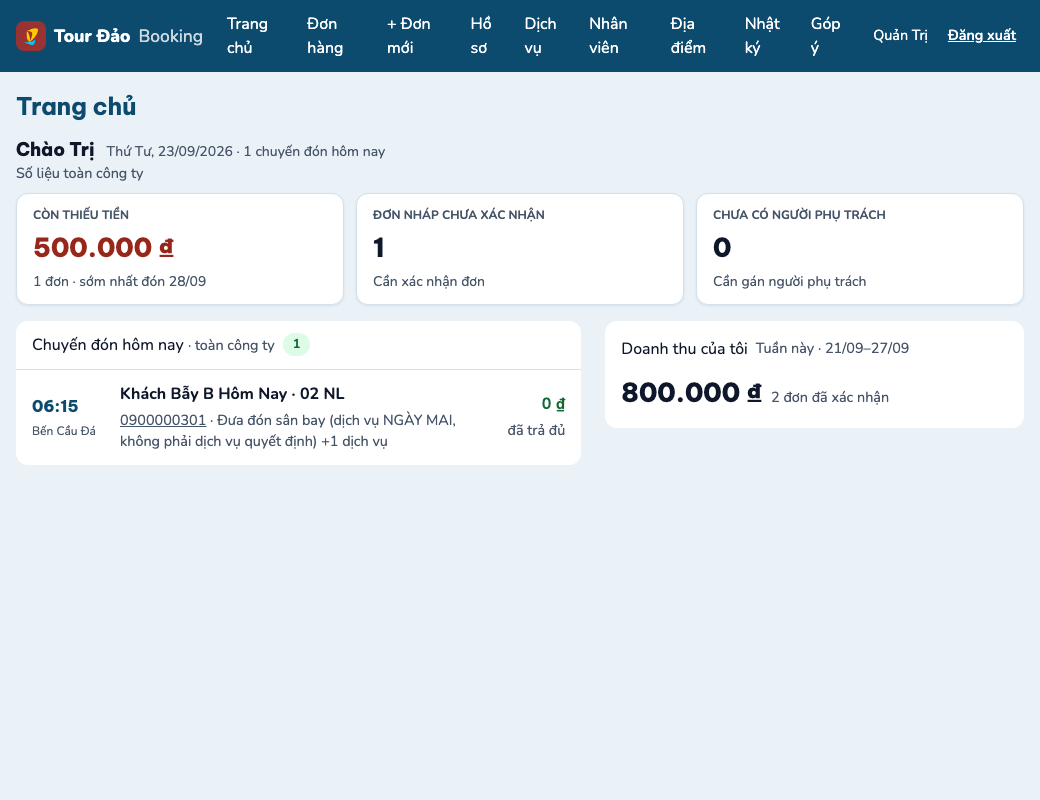
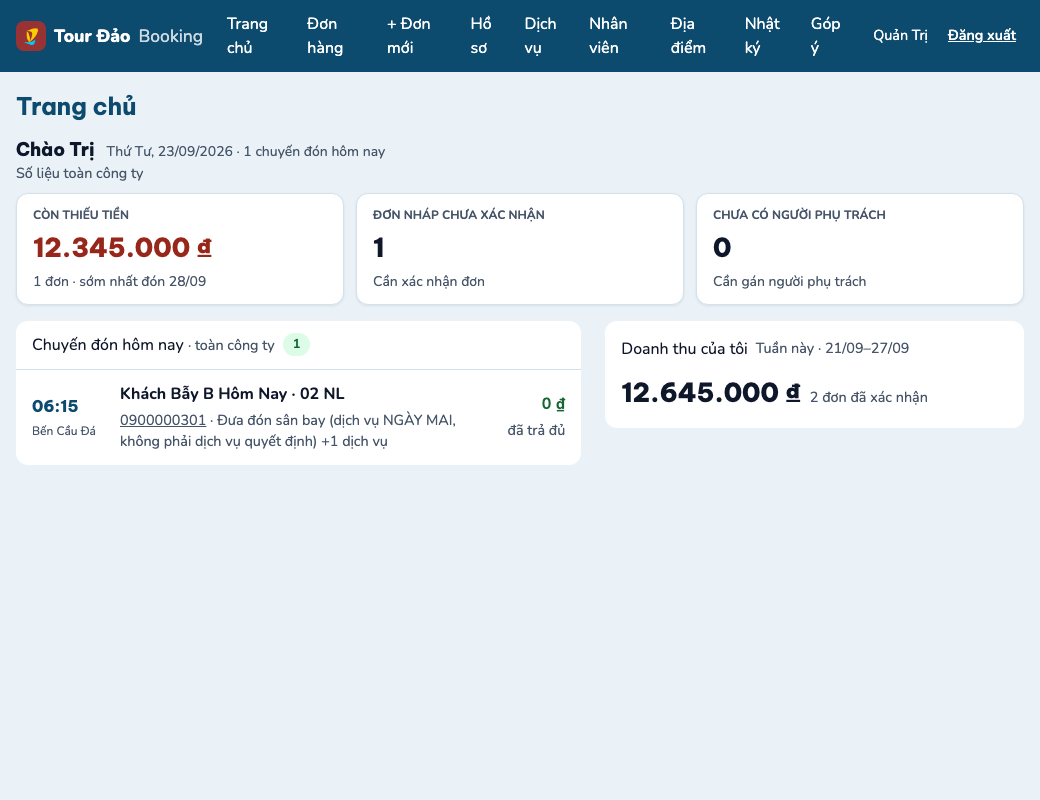
Hiệu chỉnh I-3 theo cỡ số thật + sửa nốt số tab lỗi thời ở PWA-IPHONE.md
Lưới chặn I-3 (ô số liệu không được xuống dòng) ban đầu đo trên dữ liệu R3 = 500.000 — đúng
số vừa khít với cỡ chữ 26px cũ, KHÔNG phải cỡ số ticket nêu ("số thật của công ty, hàng chục
triệu sẽ tệ hơn"). Đổi unitPrice của R3 trong trang-chu-smoke.mjs thành 12.345.000 và cập
nhật mọi assertion literal đi kèm — lưới nay đo đúng cỡ số thật.

P16: tạm trả .dash-stat-value về font-size 26px (var(--fs-stat)), build lại, chạy kịch bản
→ đỏ đúng ở assertion mới (valueWrapped: true, 78px thật so với 39px một dòng, số liệu
"12.345.000 ₫"). Phục hồi var(--fs-stat-sm) → xanh trở lại. Cơ chế kiểm coi là hoạt động.

Sửa nốt docs/PWA-IPHONE.md dòng 10-11: số tab theo vai (SALES/ADMIN/kế toán) và số tab lúc
mất mạng đều lỗi thời cùng nguyên nhân với web/shell.ts:115 (thêm "Trang chủ" vào tabsFor) —
tính lại từ mã và đối chiếu bằng kịch bản Chrome (ADMIN 6 mục ở 390px).

Ảnh docs/evidence/2026-09-23-trang-chu-moi/anh/*.png ghi đè lại theo dữ liệu mới (nội dung
đổi có chủ đích).

Claude-Session: https://claude.ai/code/session_01NJLtLC2YyD5cXeAzhcNJ4B

Changed region(s): [[0.0308, 0.2812, 0.2154, 0.3438], [0.5846, 0.4688, 0.8923, 0.5]]

diff --git a/docs/evidence/2026-09-23-trang-chu-moi/README.md b/docs/evidence/2026-09-23-trang-chu-moi/README.md
@@ -40,7 +40,7 @@ xong, xem mục "Kịch bản" bên dưới).
 |---|---|---|---|
 | R1 | confirmed | sort_order 0 = **NGÀY MAI**, 19:30, Sân bay Cam Ranh, "Đưa đón sân bay…"; sort_order 1 = **HÔM NAY**, 06:15, Bến Cầu Đá, "Tour 4 đảo…" | subtotal 300.000, cọc 300.000 → còn lại 0 (đã trả đủ) |
 | R2 | **nháp** (không xác nhận) | 1 dịch vụ HÔM NAY | subtotal 100.000 |
-| R3 | confirmed | 1 dịch vụ ngày khác hôm nay (+5 ngày) | subtotal 500.000, cọc 0 → còn lại 500.000 |
+| R3 | confirmed | 1 dịch vụ ngày khác hôm nay (+5 ngày) | subtotal 12.345.000, cọc 0 → còn lại 12.345.000 (kiểm gộp I-3: số hàng chục triệu, không phải vài trăm nghìn — đo đúng cỡ số thật cho lưới tràn dòng ₫) |
 
 R1 dựng đúng hình dạng bẫy đã gây lỗi thật ở Task 1 (kiểm độc lập vòng 1): `sort_order` NGƯỢC chiều ngày, giờ
 và nơi đón của hai dịch vụ khác hẳn nhau, để phép đo "giờ/nơi đón hiển thị đúng dịch vụ hôm nay" không thể
@@ -55,9 +55,9 @@ tình cờ đúng.
   hình dạng `DashboardResponse`, không phải 404 do bị route `GET /api/orders/:id` nuốt mất nếu ai đó lỡ dời
   thứ tự khai route trong `src/modules/orders/index.ts`.
 - **Đối chiếu API với số tự tay tính** (lưới thứ hai ngoài `dashboard.test.ts` của Task 1, qua đường HTTP
-  thật): `draftCount=1` (R2), `unpaid` = 1 đơn/500.000/ngày của R3, `today` = đúng `[R1]` với
+  thật): `draftCount=1` (R2), `unpaid` = 1 đơn/12.345.000/ngày của R3, `today` = đúng `[R1]` với
   `trip = { departDate: HÔM NAY, pickupTime: "06:15", pickupPlace: "Bến Cầu Đá" }` (dịch vụ QUYẾT ĐỊNH,
-  sort_order=1 — KHÔNG phải sort_order=0), `revenueWeek` = 2 đơn/800.000.
+  sort_order=1 — KHÔNG phải sort_order=0), `revenueWeek` = 2 đơn/12.645.000.
 - **Mở `/home` ở 1040×800 và 390×844 (ADMIN):** đối chiếu MỖI SỐ trên màn hình thật với dữ liệu trên —
   3 ô số liệu, huy hiệu + danh sách "Chuyến đón hôm nay" (đúng 1 dòng, R2/R3 không lộ ra), khối "Doanh thu
   của tôi"; `#dash-layout` là `display: grid` ở 1040 và `display: block` ở 390; thứ tự DOM gốc
